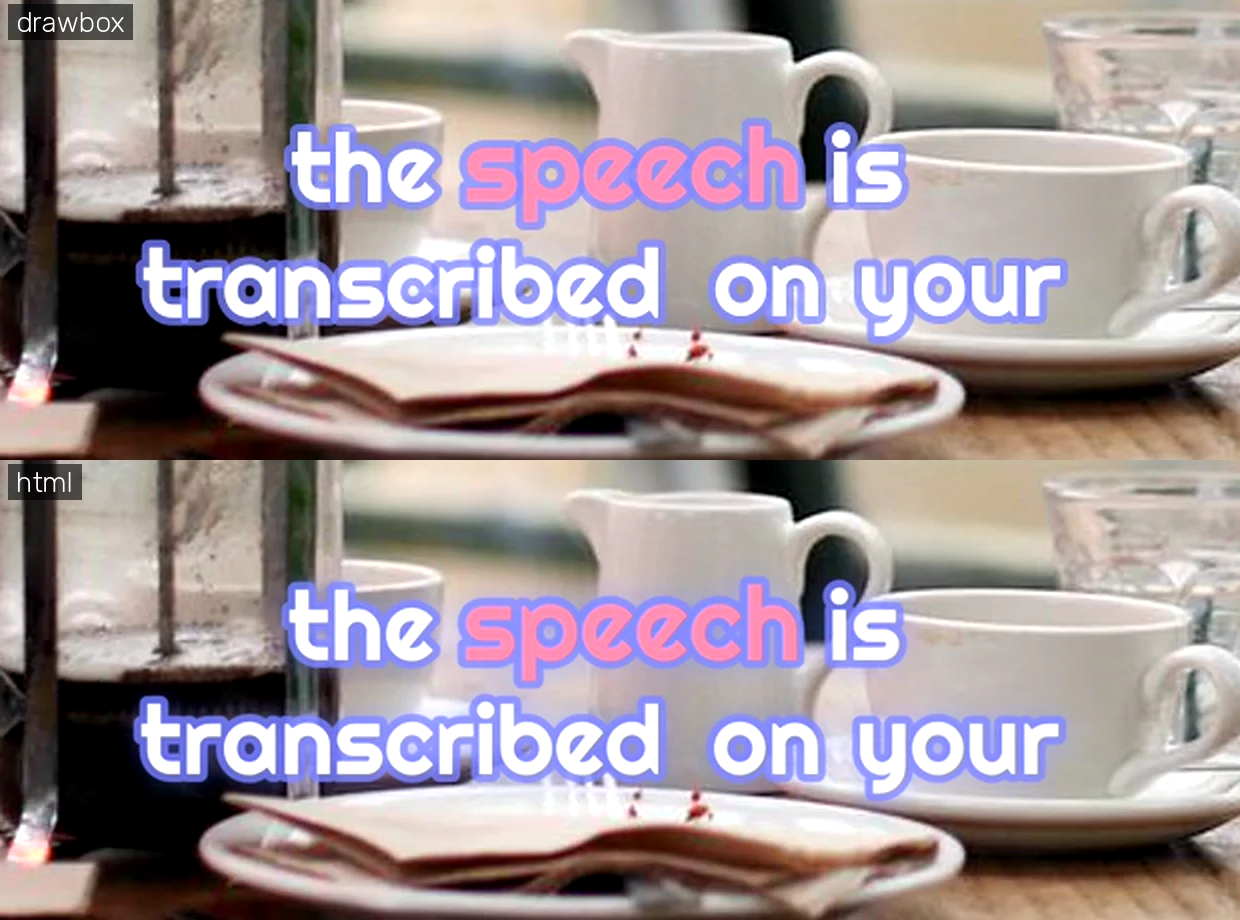
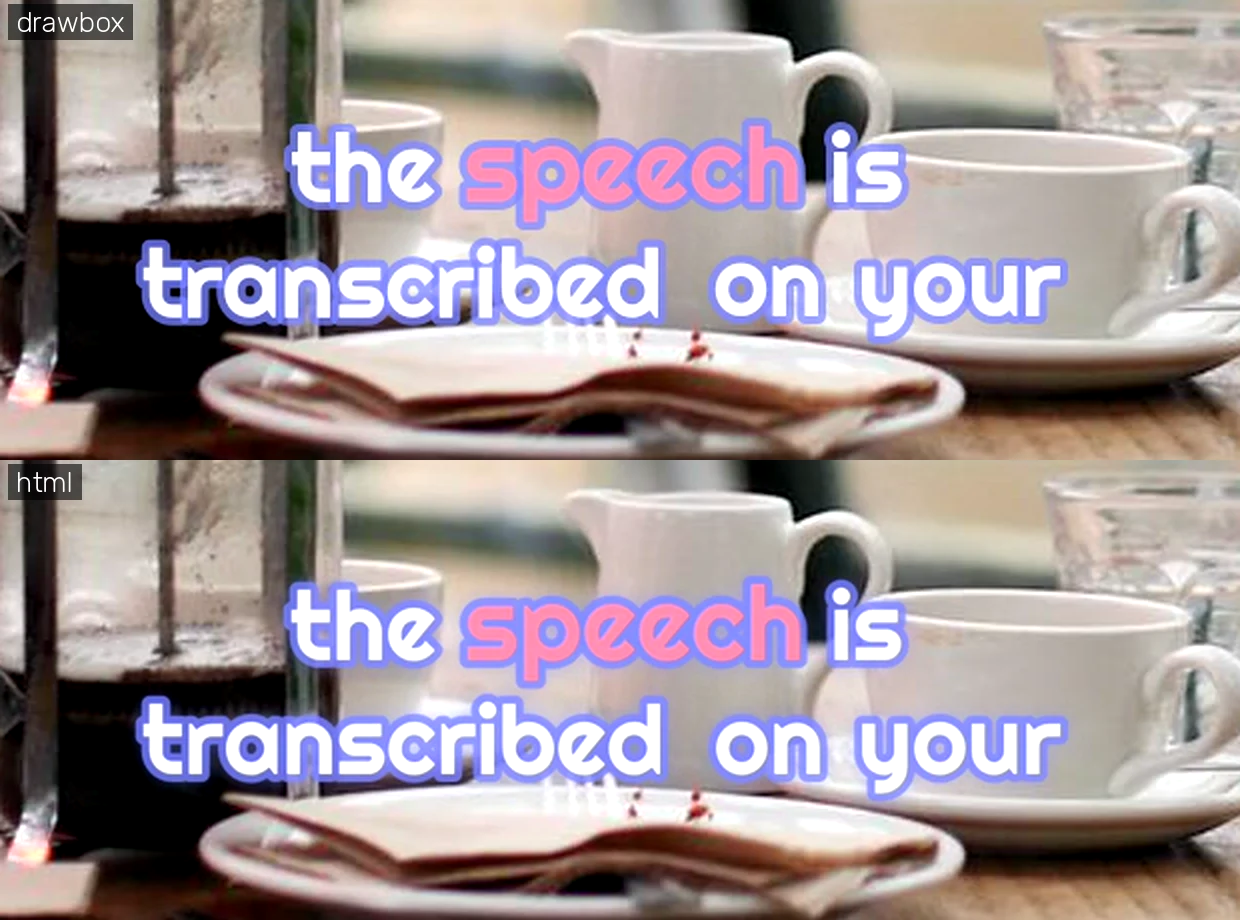
feat(core): default plated captions to the html renderer

Changed region(s): [[0.2145, 0.6391, 0.8581, 0.8826], [0.0919, 0.7609, 0.2758, 0.8522]]

diff --git a/packages/ffmpeg-video-composer/src/core/captions/caption-html.ts b/packages/ffmpeg-video-composer/src/core/captions/caption-html.ts
@@ -61,7 +61,9 @@ export interface CaptionTrack {
 }
 
 /** A shadow with no offset is a glow; one with an offset a soft drop shadow (blur as a share of the size). */
-const GLOW_BLUR = 0.3;
+const GLOW_BLUR = 0.17;
+/** A glow's blur stops here (output px): resvg's cost grows with the blur, and a wider one adds little. */
+const GLOW_MAX = 8;
 const SHADOW_BLUR = 0.06;
 /** Room around the drawn copy for strokes, shadows and a growing word, as a share of the largest size. */
 const BAND_MARGIN = 0.45;
@@ -104,7 +106,7 @@ export function captionLook(
 function effectReach(look: CaptionLook, size: number): number {
   const outline = look.effect?.outline?.width ?? 0;
   const shadow = look.effect?.shadow;
-  const offset = shadow ? Math.max(Math.abs(shadow.dx), Math.abs(shadow.dy)) + size * GLOW_BLUR : 0;
+  const offset = shadow ? Math.max(Math.abs(shadow.dx), Math.abs(shadow.dy)) + GLOW_MAX * 2 : 0;
 
   return size * BAND_MARGIN + outline * 2 + offset + look.entrance.distance;
 }
@@ -201,7 +203,8 @@ export interface CaptionHtmlRequest {
 function textEffect(look: CaptionLook, size: number): Array<[string, string | undefined]> {
   const { outline, shadow } = look.effect ?? {};
   const glow = shadow?.dx === 0 && shadow.dy === 0;
-  const blur = shadow ? Math.max(1, Math.round(size * (glow ? GLOW_BLUR : SHADOW_BLUR))) : 0;
+  const glowBlur = Math.min(GLOW_MAX, size * GLOW_BLUR);
+  const blur = shadow ? Math.max(1, Math.round(glow ? glowBlur : size * SHADOW_BLUR)) : 0;
 
   return [
     ['text-shadow', shadow && `${px(shadow.dx)} ${px(shadow.dy)} ${px(blur)} ${cssColor(shadow.color)}`],

diff --git a/packages/ffmpeg-video-composer/tests/subtitles-html.test.ts b/packages/ffmpeg-video-composer/tests/subtitles-html.test.ts
@@ -63,10 +63,29 @@ describe('subtitles.renderer', () => {
 
   it('keeps the drawtext / drawbox lowering when the renderer is drawbox', () => {
     const { context, inputs } = masks();
-    const filters = subtitlesToFilters(TRACK, ctx(context));
+    const filters = subtitlesToFilters({ ...TRACK, renderer: 'drawbox' }, ctx(context));
 
     expect(types(filters)).toEqual(['drawbox', 'drawtext']);
     expect(inputs).toEqual([]);
+  });
+
+  // drawbox can't anti-alias a plate's corners cheaply: a DNA with a plate defaults to html where it can draw.
+  it('defaults a plated DNA to html and a plain one to drawbox', () => {
+    const plated = masks();
+    const plain = masks();
+
+    expect(types(subtitlesToFilters(TRACK, ctx(plated.context)))).toEqual(['graph']);
+    expect(plated.inputs).toHaveLength(1);
+    expect(types(subtitlesToFilters({ ...TRACK, style: 'clean' }, ctx(plain.context)))).toEqual(['drawtext']);
+    expect(plain.inputs).toEqual([]);
+  });
+
+  it('falls back from the default html to drawbox silently where the host cannot draw HTML', () => {
+    const { context, inputs, warn } = masks({ htmlLayers: false });
+
+    expect(types(subtitlesToFilters(TRACK, ctx(context)))).toEqual(['drawbox', 'drawtext']);
+    expect(inputs).toEqual([]);
+    expect(warn).not.toHaveBeenCalled();
   });
 
   it('composites one raster track over the frame when the renderer is html', () => {

diff --git a/packages/ffmpeg-video-composer/src/core/captions/karaoke.ts b/packages/ffmpeg-video-composer/src/core/captions/karaoke.ts
@@ -1,6 +1,6 @@
 // Karaoke timing shared by both subtitle renderers (editor/presets/subtitles.ts draws it with drawtext,
 // core/captions/caption-frames.ts samples it into raster states): when each word of a cue is the spoken
-// one, and the eased curve of a pop. Pure.
+// one, and how long and on which curve a pop bumps. Pure.
 
 import { parseEasing } from '../motion/easing';
 import type { PlacedCue, PlacedWord } from './place';
@@ -24,11 +24,4 @@ export function activeWindow(cue: PlacedCue, words: readonly PlacedWord[], index
   const bridged = next && next.start - word.end < ACTIVE_BRIDGE ? next.start : word.end;
 
   return { from: Math.max(cue.start, word.start), to: Math.min(cue.end, Math.max(bridged, word.start + 0.04)) };
-}
-
-/** The pop bump at `elapsed` seconds into the word's active window: 0 → 1 (peak) → 0, eased. */
-export function popBump(elapsed: number): number {
-  if (elapsed < 0 || elapsed >= POP_SECONDS) return 0;
-
-  return Math.sin(Math.PI * POP_EASE.fn(elapsed / POP_SECONDS));
 }

diff --git a/packages/ffmpeg-video-composer/src/core/captions/caption-frames.ts b/packages/ffmpeg-video-composer/src/core/captions/caption-frames.ts
@@ -9,7 +9,7 @@
 // the first frame whose time reaches it. Pure.
 
 import { parseEasing } from '../motion/easing';
-import { activeWindow, popBump, type ActiveSpan } from './karaoke';
+import { activeWindow, POP_EASE, POP_SECONDS, type ActiveSpan } from './karaoke';
 import type { PlacedCue, SubtitlePlan } from './plan';
 
 /** Steps an entrance is sampled into (the settled cue is the last). */
@@ -39,6 +39,13 @@ export interface CaptionSlide {
 }
 
 type Plan = Pick<SubtitlePlan, 'cues' | 'style'>;
+
+/** The pop bump at `elapsed` seconds into the word's active window: 0 → 1 (peak) → 0, eased like drawtext's. */
+function popBump(elapsed: number): number {
+  if (elapsed < 0 || elapsed >= POP_SECONDS) return 0;
+
+  return Math.sin(Math.PI * POP_EASE.fn(elapsed / POP_SECONDS));
+}
 
 /** The first frame whose time reaches `seconds`. */
 export function frameAt(seconds: number, fps: number): number {

diff --git a/packages/ffmpeg-video-composer/tests/caption-html.test.ts b/packages/ffmpeg-video-composer/tests/caption-html.test.ts
@@ -128,6 +128,15 @@ describe('captionHtml', () => {
     expect(clean.words[0].props.style.textShadow).toMatch(/^2px 3px \d+px rgba\(0,0,0,0\.55\)$/);
   });
 
+  // A blurred text shadow is the costliest thing a raster draws: a wide glow made neon ~15× slower than loud.
+  it('caps a glow blur so its raster stays cheap', () => {
+    const neon = render(plan({ style: 'neon', size: 120 }), SETTLED);
+    const blur = Number(/^0px 0px (\d+)px /.exec(neon.words[0].props.style.textShadow)?.[1]);
+
+    expect(blur).toBeGreaterThan(0);
+    expect(blur).toBeLessThanOrEqual(8);
+  });
+
   it('draws a rounded plate behind each line of a boxed DNA', () => {
     const planned = plan({ style: 'boxed', cues: [{ at: 1, end: 3, text: 'A much longer caption that will wrap' }] });
     const { band, prepared } = render(planned, SETTLED);

diff --git a/packages/ffmpeg-video-composer/src/editor/presets/subtitles-html.ts b/packages/ffmpeg-video-composer/src/editor/presets/subtitles-html.ts
@@ -26,16 +26,18 @@ export interface HtmlCaptionRequest {
   palette: CaptionPalette;
   effect: CaptionDnaEffect | undefined;
   ctx: SugarContext;
+  /** `renderer: "html"` was authored (not the plated-DNA default): only then is a fallback worth a warning. */
+  explicit: boolean;
 }
 
 /** The filters compositing the caption track, or null when the drawbox renderer must draw it instead. */
-export function htmlCaptionFilters({ plan, palette, effect, ctx }: HtmlCaptionRequest): Filter[] | null {
+export function htmlCaptionFilters({ plan, palette, effect, ctx, explicit }: HtmlCaptionRequest): Filter[] | null {
   const masks = ctx.masks;
 
   if (!masks) return null;
 
   if (masks.htmlLayers === false) {
-    masks.warn(UNAVAILABLE);
+    if (explicit) masks.warn(UNAVAILABLE);
 
     return null;
   }

diff --git a/packages/ffmpeg-video-composer/src/editor/presets/subtitles.ts b/packages/ffmpeg-video-composer/src/editor/presets/subtitles.ts
@@ -165,7 +165,10 @@ export function subtitlesToFilters(subtitles: Subtitles | undefined, ctx: SugarC
   const paint = painter(ctx.theme);
   const colors = palette(subtitles, plan.style, paint);
   const effect = paintedEffect(plan.style.dna.effect, paint);
-  const html = subtitles.renderer === 'html' ? ctx.masks?.captions?.({ plan, palette: colors, effect, ctx }) : null;
+  const explicit = subtitles.renderer === 'html';
+  // A plated DNA defaults to html: drawbox can't anti-alias the plate's corners cheaply.
+  const wantsHtml = explicit || (subtitles.renderer === undefined && plan.style.dna.box !== undefined);
+  const html = wantsHtml ? ctx.masks?.captions?.({ plan, palette: colors, effect, ctx, explicit }) : null;
 
   if (html) return html;
 

diff --git a/packages/ffmpeg-video-composer/src/schemas/subtitles.schemas.ts b/packages/ffmpeg-video-composer/src/schemas/subtitles.schemas.ts
@@ -156,8 +156,7 @@ export const SubtitlesSchema = z
       .enum(SUBTITLE_RENDERERS)
       .optional()
       .describe(
-        'drawbox (default): drawtext / drawbox filters. html: rasterised through the HTML layers, same layout and ' +
-          'timing (drawbox where the host draws no HTML).'
+        'drawbox (filters) or html (rasterised, same layout). Default: html for a DNA with a plate, else drawbox.'
       ),
   })
   .strict()

diff --git a/docs/template-configuration.md b/docs/template-configuration.md
@@ -556,9 +556,9 @@ Words are grouped into phrases: a new phrase starts after a pause ≥ `group.pau
 | `crown`                                                                 | `"auto"` (the last exclaimed or final cue) or a phrase: that line is drawn larger in the crown colour, without karaoke. Once per video.      |
 | `position` / `size` / `minSize` / `maxLines` / `minDuration` / `offset` | Placement and fitting; `offset` shifts every time.                                                                                           |
 | `font` / `color` / `activeColor`                                        | Overrides (bundled font only; colours accept `$color.*`).                                                                                    |
-| `renderer`                                                              | `drawbox` (default) or `html`: how the captions are drawn (see below). Same layout and timing either way.                                    |
+| `renderer`                                                              | `drawbox` or `html`: how the captions are drawn (see below). Default: `html` for a DNA with a plate (`boxed`), else `drawbox`.               |
 
-By default everything lowers to `drawtext` / `drawbox` gated by `enable` windows. With `"renderer": "html"` the same plan (layout, line breaks, timing) is drawn through the [HTML layers](#html-layers) instead: each distinct look of a cue (which word is lit, how far a pop or the entrance has played) is rasterised once, at twice the output size, with CSS rounded plates, anti-aliased strokes and soft shadows (a zero-offset DNA shadow becomes a glow). The rasters play as one image stream (the concat demuxer, one extra input) under a single `overlay`, so a long transcript costs one input and one decoded frame at a time, not one input per word. Entrances are sampled into 4 steps and a pop's bump into 2, so motion is slightly steppier than drawtext's per-frame curves. Colour emoji are not drawn by the HTML renderer. Where the host has no HTML rasteriser, `html` falls back to `drawbox` and logs `caption_html_unavailable` (also a motion advisory when the caller passes `htmlLayers: false`).
+The `drawbox` renderer lowers everything to `drawtext` / `drawbox` gated by `enable` windows. With `"renderer": "html"` the same plan (layout, line breaks, timing) is drawn through the [HTML layers](#html-layers) instead: each distinct look of a cue (which word is lit, how far a pop or the entrance has played) is rasterised once, at twice the output size, with CSS rounded plates, anti-aliased strokes and soft shadows (a zero-offset DNA shadow becomes a glow, its blur capped at 8 px to keep each raster cheap). The rasters play as one image stream (the concat demuxer, one extra input) under a single `overlay`, so a long transcript costs one input and one decoded frame at a time, not one input per word. Entrances are sampled into 4 steps and a pop's bump into 2, so motion is slightly steppier than drawtext's per-frame curves. Colour emoji are not drawn by the HTML renderer. **Default renderer:** an authored `renderer` always wins. Without one, a DNA that draws a plate behind each line (`dna.box`: `boxed`) uses `html`, because drawbox rectangles cannot round a plate's corners both smoothly and cheaply; every other DNA uses `drawbox`. Where the host has no HTML rasteriser, `html` falls back to `drawbox`: silently for the default, with a logged `caption_html_unavailable` when `"renderer": "html"` was authored (also a motion advisory when the caller passes `htmlLayers: false`).
 
 Errors: `invalid_srt`, `invalid_word_timings` (out of order, or overlapping by more than 0.02 s), `invalid_subtitle_cue`, `subtitle_font_unmeasurable`. Advisories: `caption_split`, `caption_shrunk`, `subtitle_past_end`, `caption_crown_repeated`. See [`examples/motion-design/word-captions.json`](../examples/motion-design/word-captions.json).
 
